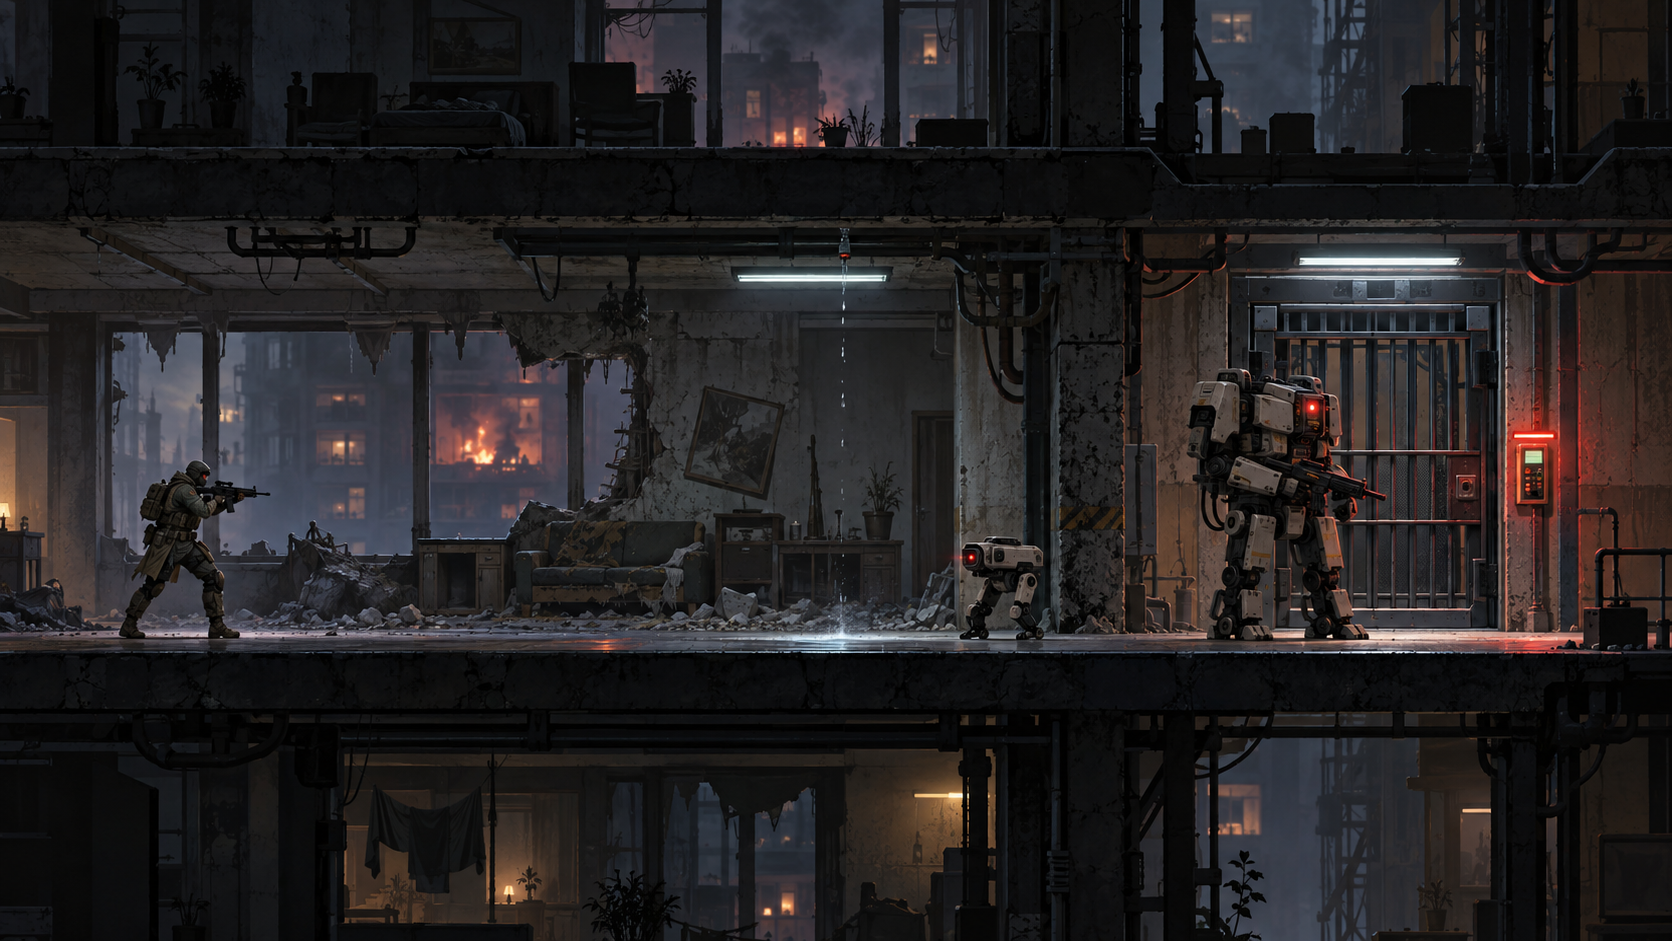
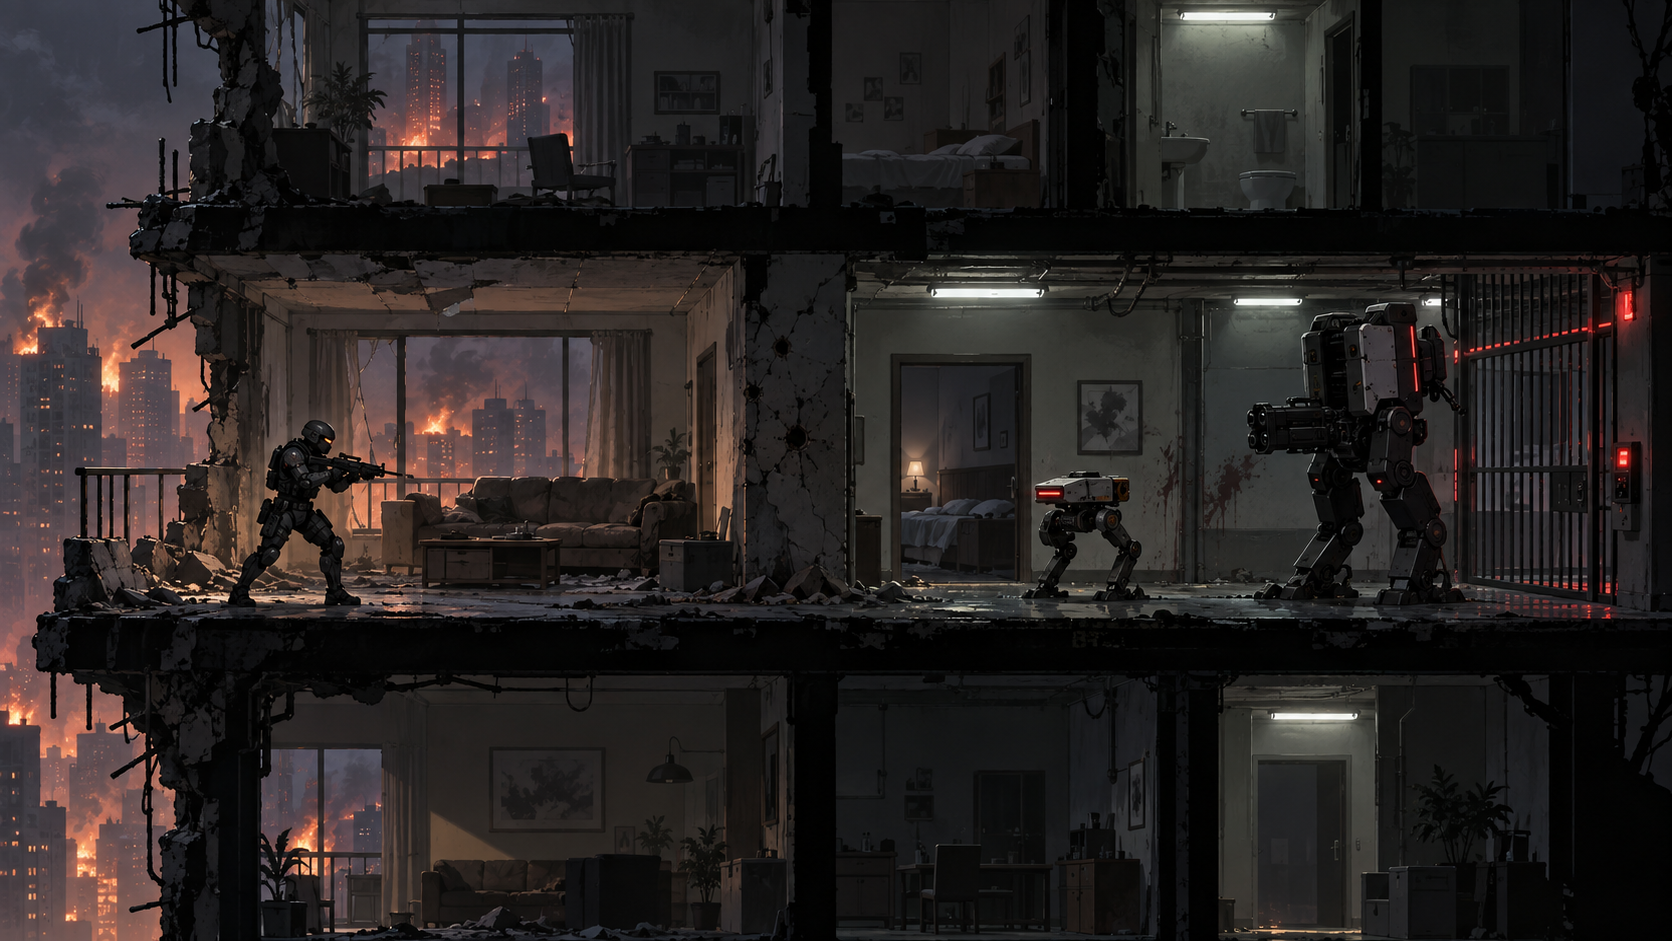
🎨(missions): align M01 concept with ROOK visual reference

diff --git a/production/asset-registry.md b/production/asset-registry.md
@@ -28,7 +28,7 @@ Record only metadata for licensed private assets; never link or embed restricted
 | VIS-02 | M01 E001 concept | Enemy candidate | TBD | Silhouette, action readability, style | TBD | Not run | Requires update |
 | VIS-03 | M01 E002 concept | Enemy candidate | TBD | Silhouette, threat readability, style | TBD | Not run | Requires update |
 | VIS-04 | M01 residential-tower kit | Environment | TBD | Layout, readability, reusable kit | TBD | Pending direction | Requires scope |
-| VIS-05 | [[Missions/M01#mission-visual-reference|M01 security-hold concept]] | Exploratory Mission sample | Generated with image tool from M01 / ROOK / E001 / E002 briefs | Validate level layout, silhouettes, readability, and production feasibility; not a kit or approved style | No | Not run | Review candidate |
+| VIS-05 | [[Missions/M01#mission-visual-reference|M01 security-hold concept]] | Exploratory Mission sample | Generated with image tool from M01 / E001 / E002 briefs and a text description of [[Characters/Rook#appearance|ROOK's refined reference]]; no source-image conditioning | Validate ROOK likeness, level layout, silhouettes, readability, and production feasibility; not a kit or approved style | No | Not run | Review candidate |
 | VIS-06 | Baseline combat effects | Effects | TBD | Semantic color, timing, visual density | Yes | Not run | Planned |
 | VIS-07 | Integrity and interaction signals | Interface | TBD | Semantic color, scale, contrast | Yes | Not run | Planned |
 | VIS-08 | [[Characters/Vector#appearance|VECTOR visual references]] | Player | User-refined crew sheet already in wiki; modelling turnaround imported from `modeling/model VECTOR.png` | Resolve Specialization looks and gameplay silhouette | Yes | Pending direction | Reference candidate |

diff --git a/missions/m01.md b/missions/m01.md
@@ -78,6 +78,6 @@ During R03's ordinary completion flow, ROOK briefly appears under another design
 
 ## Mission visual reference
 
-> **TODO — Visual review:** Evaluate this exploratory generated concept at gameplay scale against the eventual ROOK, E001, E002, and level-layout samples. Its architecture, rendering style, enemy shapes, and interaction cues are proposals, not accepted art or encounter specifications. Link shared rules from [[Design/Art Direction|Art Direction]] only after cross-Mission review.
+> **TODO — Visual review:** Compare this exploratory generated concept with [[Characters/Rook#appearance|ROOK's refined reference]], eventual E001/E002 designs, and a reviewed level layout at gameplay scale. The helmet and armour are an approximation of that reference, not a traced or approved Character render. Its architecture, rendering style, enemy shapes, and interaction cues are proposals, not accepted art or encounter specifications. Link shared rules from [[Design/Art Direction|Art Direction]] only after cross-Mission review.
 
 ![Exploratory M01 residential-tower gameplay concept showing ROOK facing two different-sized machines near a security gate](content/images/missions/m01-concept.png)
